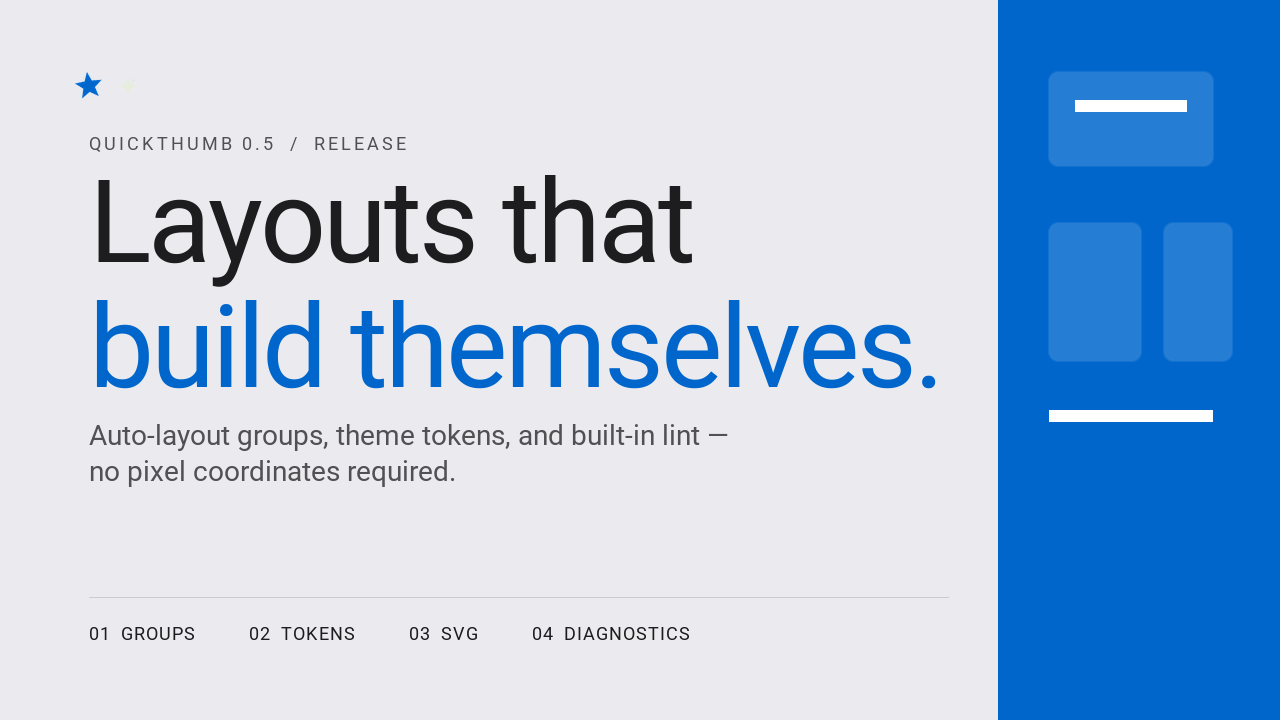
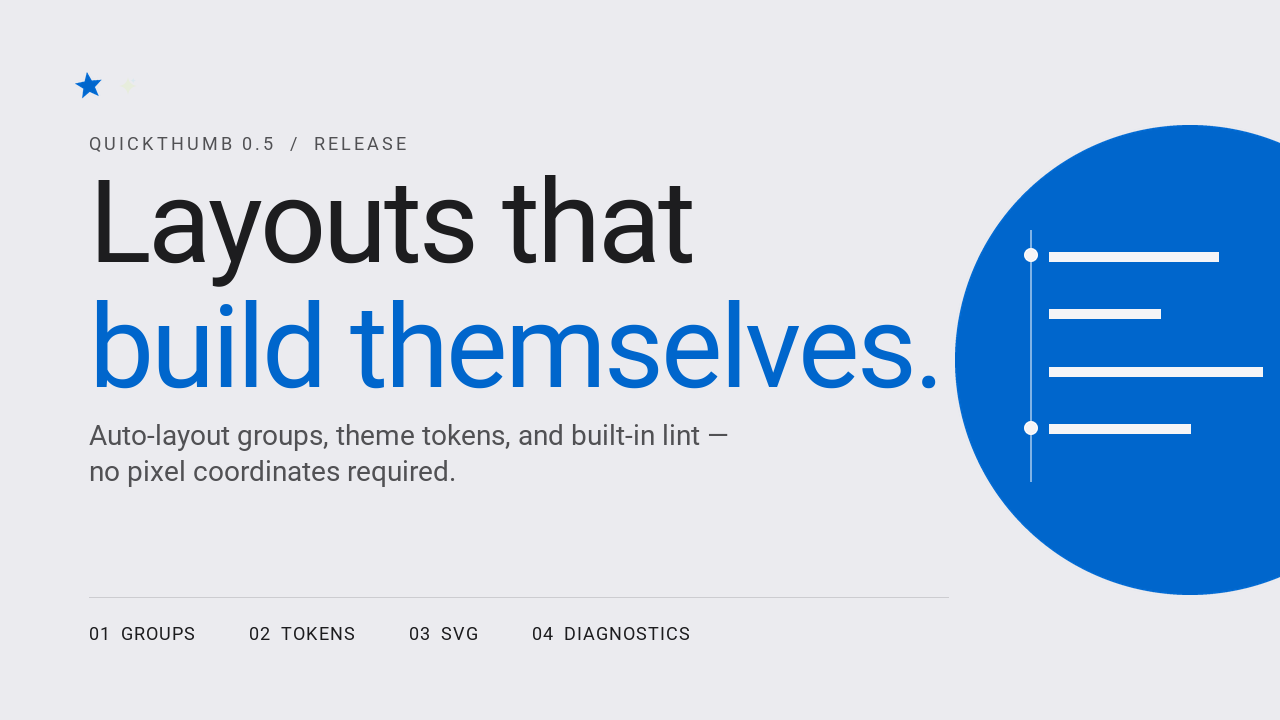
feat: strengthen launch announcement graphic

Changed region(s): [[0.7188, 0.3056, 1.0, 0.6722], [0.7812, 0.0, 1.0, 0.3056], [0.7812, 0.7028, 1.0, 1.0]]

diff --git a/examples/launch_announcement.py b/examples/launch_announcement.py
@@ -3,8 +3,8 @@ JSON-first launch announcement card.
 
 Exercises the quickthumb 0.5 feature set in a single themed spec:
 - A top-level `theme` block with `$theme.*` token references across layers
-- Auto-layout `group` layers (a column with a nested chip row) — no hand-placed
-  coordinates for any text
+- Auto-layout `group` layers for the headline column and feature row — no
+  hand-placed coordinates inside either text group
 - `star` shape primitives and decorative `svg` layers
 - Film grain on the base background
 - `canvas.diagnose()` before rendering, mirroring `quickthumb lint`

diff --git a/examples/README.md b/examples/README.md
@@ -143,10 +143,10 @@ Spec: `launch_announcement.json`
 Shows the quickthumb 0.5 feature set in a single themed JSON spec:
 
 - Top-level `theme` block with `$theme.*` token references for every color and font size
-- Auto-layout `group` layers — a column with a nested chip row, zero hand-placed text coordinates
-- `star` shape primitives with glow and stroke effects
-- Decorative `svg` layers (requires `quickthumb[svg]`)
-- Gradient-filled headline text via per-`TextPart` `fill`
+- Auto-layout `group` layers for the headline column and feature row, with zero hand-placed coordinates inside either text group
+- An abstract alignment field that communicates reflow without imitating a dashboard UI
+- A `star` primitive and decorative `svg` accent (requires `quickthumb[svg]`)
+- Rich-text headline coloring through themed `TextPart` values
 - `Grain` effect with a fixed seed for deterministic texture
 - `canvas.diagnose()` before rendering, mirroring `quickthumb lint`
 
